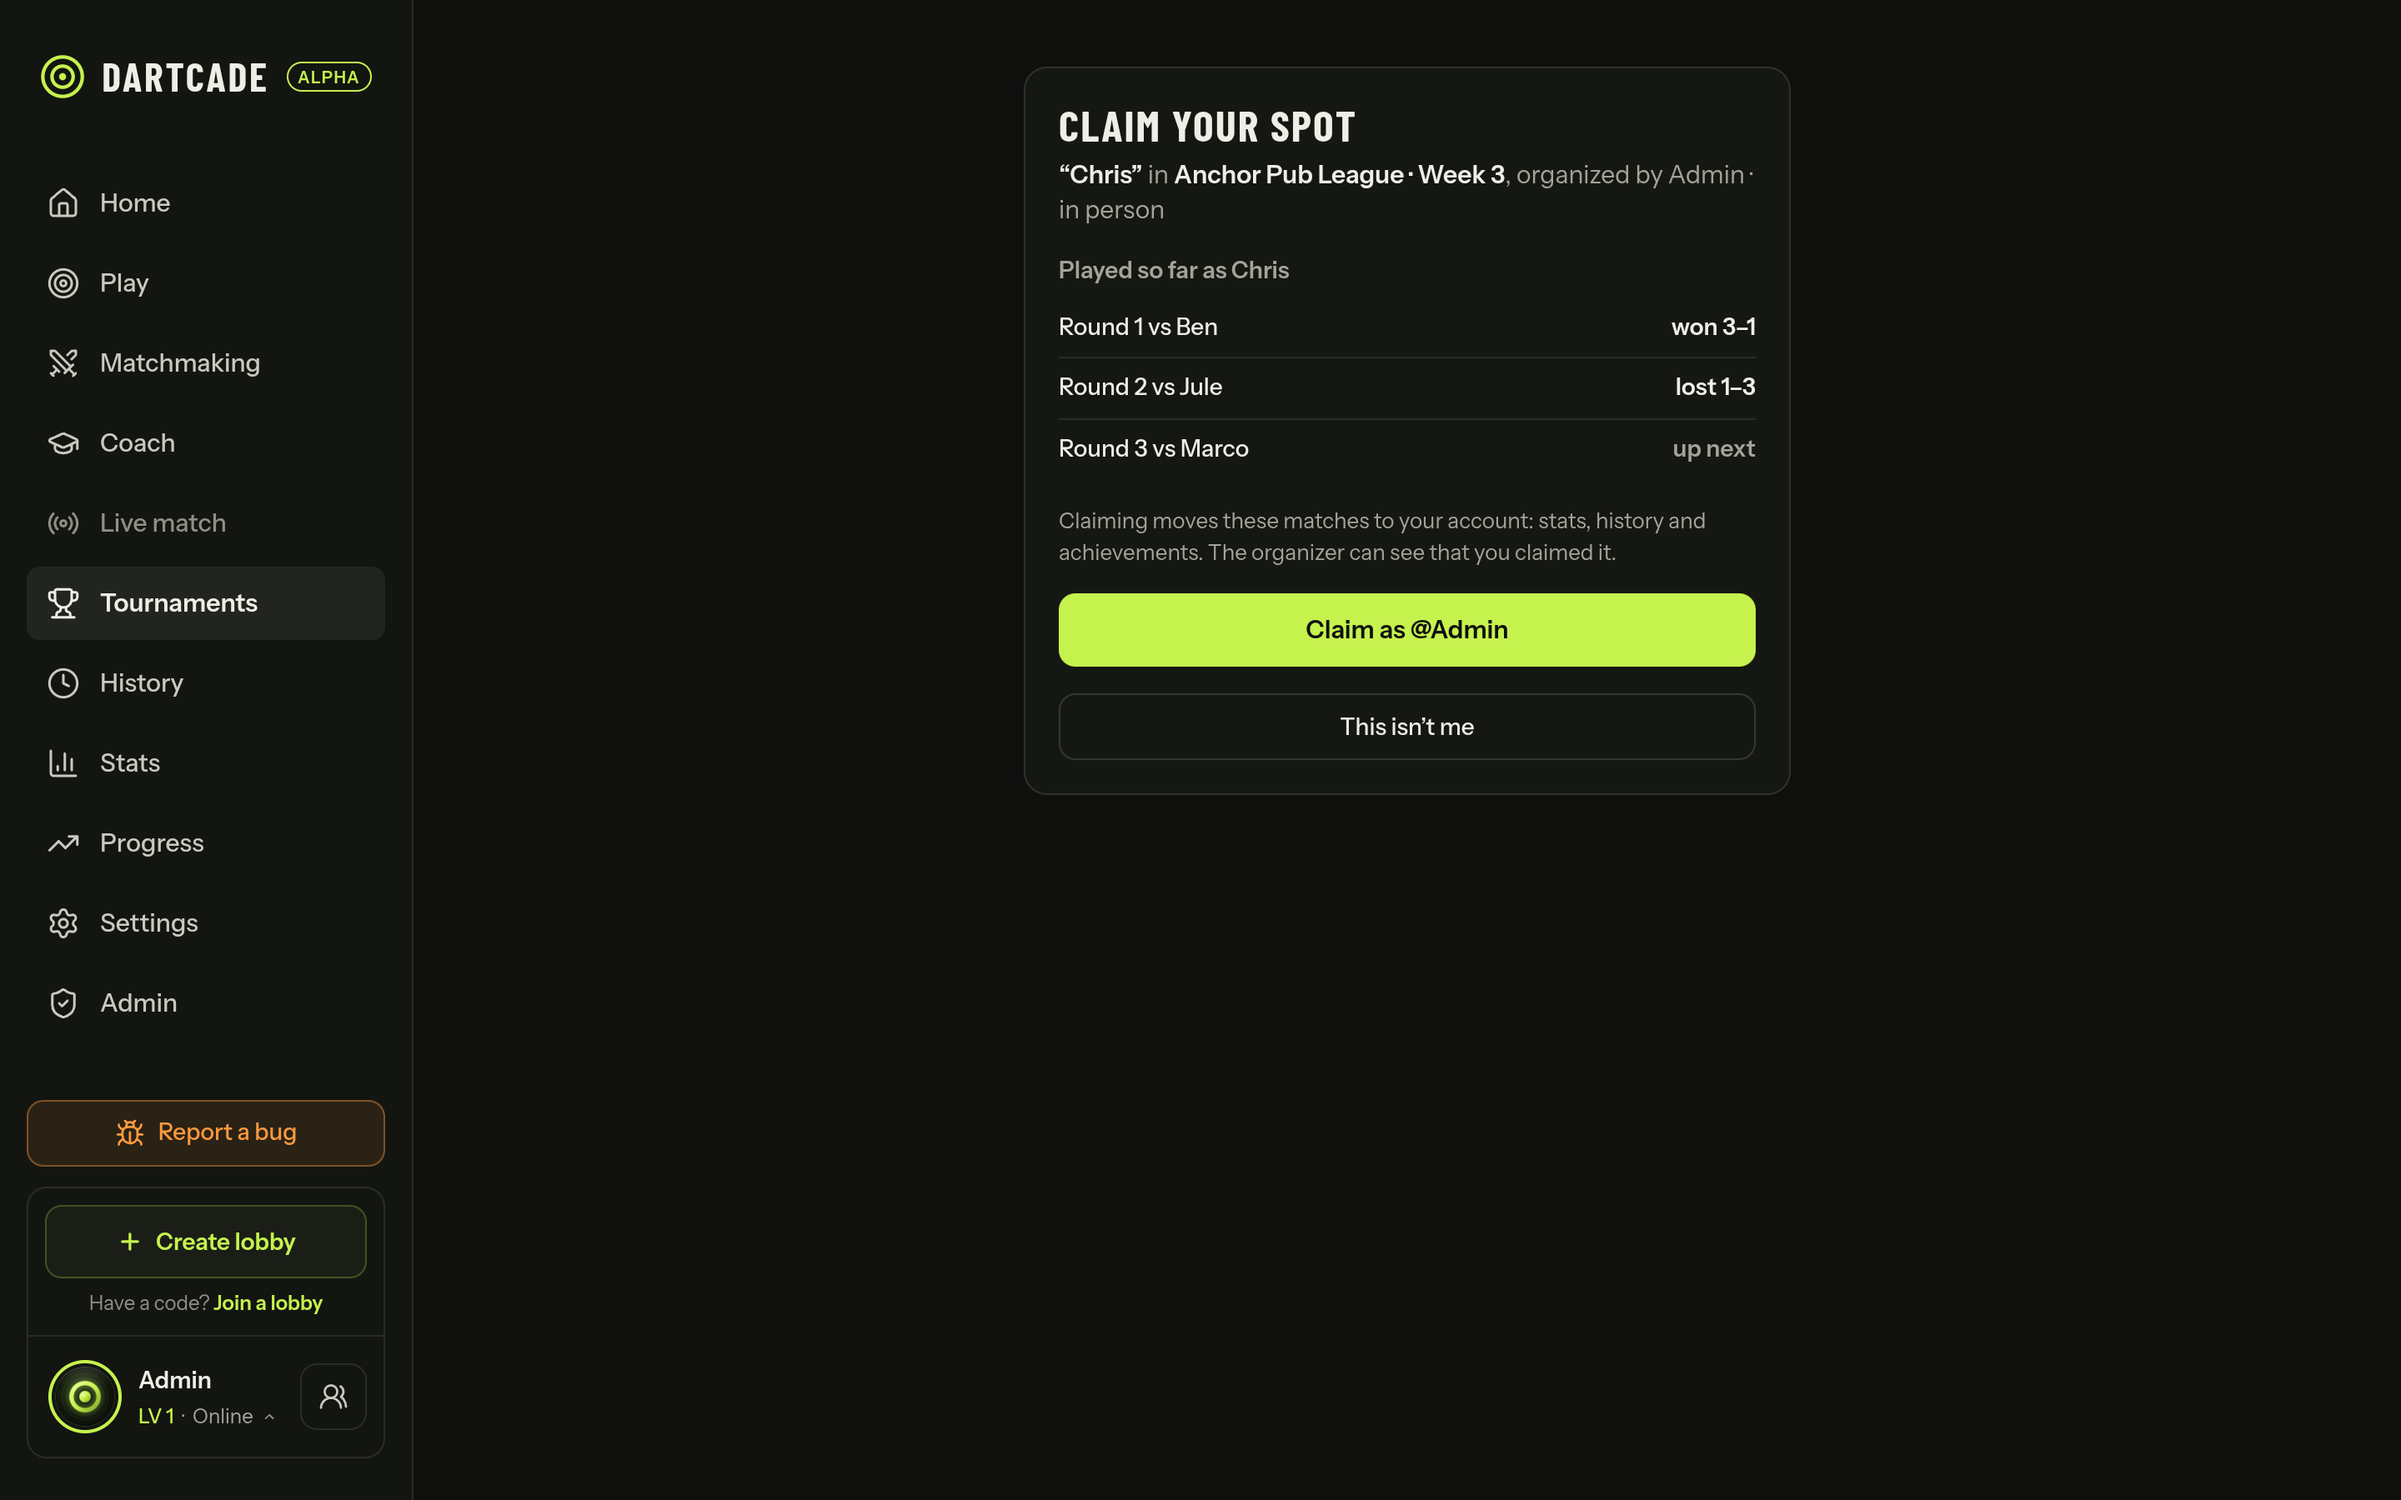
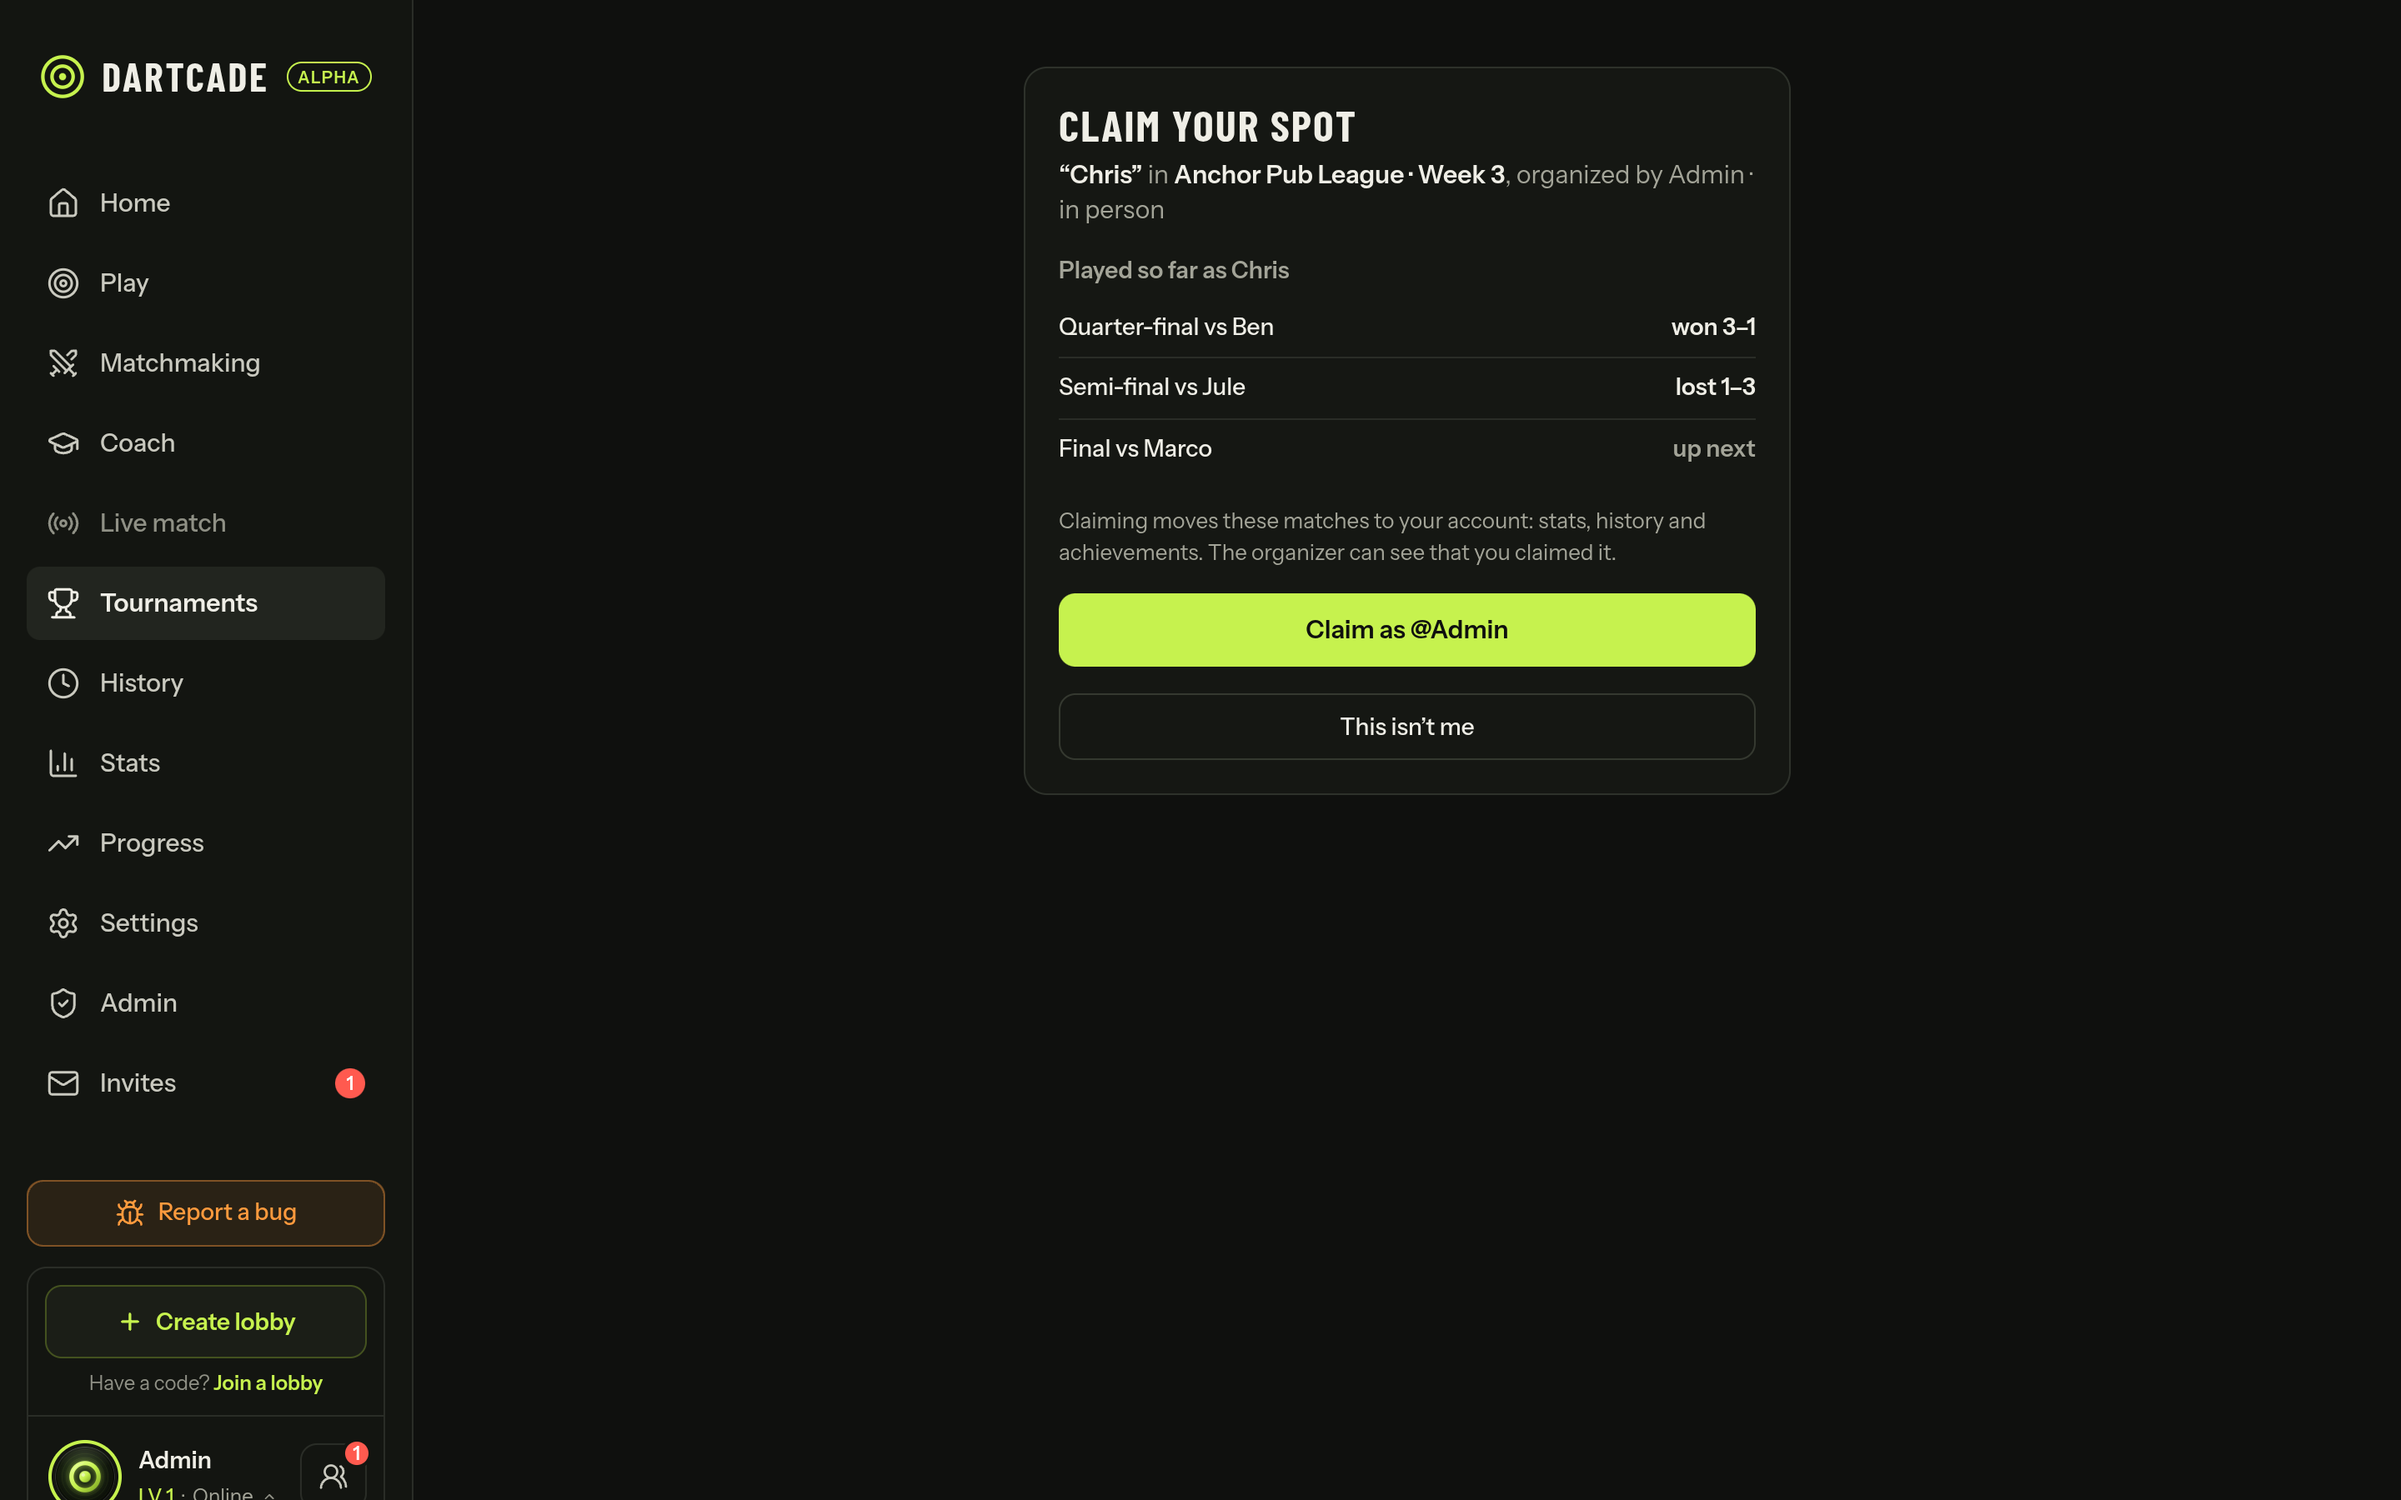
fix(tournaments): title each played match by its bracket on the claim page

diff --git a/backend/src/db/tournamentClaim.ts b/backend/src/db/tournamentClaim.ts
@@ -5,6 +5,8 @@ import { randomBytes } from 'node:crypto'
 import type { Kysely, Transaction } from 'kysely'
 import type { Database } from './schema.js'
 import type { components } from '../schema/api.js'
+import { BRACKET_ORDER } from '../shared/tournaments/bracket.js'
+import { matchTitle } from '../shared/tournaments/mine.js'
 
 type Played = components['schemas']['TournamentClaim']['played'][number]
 
@@ -79,35 +81,46 @@ export async function holdsOtherSpot(
   return row !== undefined
 }
 
-/** The entry's matches in round order, as the claim page's "Played so far". */
+/** The entry's matches in play order (groups, winners' bracket, lower bracket, final), titled like My tournaments does. */
 export async function playedSoFar(db: Kysely<Database>, spot: Pick<ClaimSpot, 'entryId' | 'tournamentId'>): Promise<Played[]> {
-  const rows = await db
-    .selectFrom('tournament_matches as m')
-    .leftJoin('tournament_entries as a', 'a.id', 'm.entry_a_id')
-    .leftJoin('tournament_entries as b', 'b.id', 'm.entry_b_id')
-    .select([
-      'm.round',
-      'm.status',
-      'm.outcome',
-      'm.winner_entry_id',
-      'm.legs_a',
-      'm.legs_b',
-      'm.entry_a_id',
-      'a.name as a_name',
-      'b.name as b_name',
-    ])
-    .where('m.tournament_id', '=', spot.tournamentId)
-    .where(eb => eb.or([eb('m.entry_a_id', '=', spot.entryId), eb('m.entry_b_id', '=', spot.entryId)]))
-    .orderBy('m.round')
-    .orderBy('m.slot')
-    .execute()
+  const [rows, rounds] = await Promise.all([
+    db
+      .selectFrom('tournament_matches as m')
+      .leftJoin('tournament_entries as a', 'a.id', 'm.entry_a_id')
+      .leftJoin('tournament_entries as b', 'b.id', 'm.entry_b_id')
+      .select([
+        'm.bracket',
+        'm.group_no',
+        'm.round',
+        'm.slot',
+        'm.status',
+        'm.outcome',
+        'm.winner_entry_id',
+        'm.legs_a',
+        'm.legs_b',
+        'm.entry_a_id',
+        'a.name as a_name',
+        'b.name as b_name',
+      ])
+      .where('m.tournament_id', '=', spot.tournamentId)
+      .where(eb => eb.or([eb('m.entry_a_id', '=', spot.entryId), eb('m.entry_b_id', '=', spot.entryId)]))
+      .execute(),
+    db
+      .selectFrom('tournament_matches')
+      .select(eb => eb.fn.max('round').as('rounds'))
+      .where('tournament_id', '=', spot.tournamentId)
+      .where('bracket', '=', 'main')
+      .executeTakeFirst(),
+  ])
+  const mainRounds = rounds?.rounds ?? 0
   return rows
     .filter(r => r.outcome !== 'bye')
+    .sort((x, y) => BRACKET_ORDER[x.bracket] - BRACKET_ORDER[y.bracket] || x.round - y.round || x.slot - y.slot)
     .map(r => {
       const mine = r.entry_a_id === spot.entryId
       const finished = r.status === 'finished'
       return {
-        round: r.round,
+        title: matchTitle({ bracket: r.bracket, group: r.group_no, round: r.round }, mainRounds),
         opponent: mine ? r.b_name : r.a_name,
         state: !finished ? 'next' : r.winner_entry_id === spot.entryId ? 'won' : 'lost',
         legs: finished ? (mine ? `${r.legs_a}-${r.legs_b}` : `${r.legs_b}-${r.legs_a}`) : null,

diff --git a/backend/src/api/tournamentClaim.test.ts b/backend/src/api/tournamentClaim.test.ts
@@ -109,6 +109,49 @@ describe.skipIf(!process.env.TEST_DATABASE_URL)('claiming a tournament spot', ()
     expect(counted).toEqual([['g1'], []])
   })
 
+  it('titles each match by its bracket and orders groups, winners, lower bracket and final', async () => {
+    const club = (await send('admin', 'GET', '/api/tournaments/club/participants')).json<Participants>()
+    const chris = codeOf(club, 'Chris')
+    const entry = (await db.selectFrom('tournament_players').select('entry_id').where('id', '=', chris.id).executeTakeFirstOrThrow())
+      .entry_id
+    const rival = (
+      await db
+        .selectFrom('tournament_entries')
+        .select('id')
+        .where('id', '<>', entry)
+        .where('tournament_id', '=', 'club')
+        .executeTakeFirstOrThrow()
+    ).id
+    const add = (bracket: 'group' | 'main' | 'lower' | 'final', round: number, group_no: number | null, finished: boolean) =>
+      db
+        .insertInto('tournament_matches')
+        .values({
+          id: `m-${bracket}-${round}`,
+          tournament_id: 'club',
+          bracket,
+          group_no,
+          round,
+          slot: 0,
+          entry_a_id: entry,
+          entry_b_id: rival,
+          first_to: 3,
+          status: finished ? 'finished' : 'ready',
+          outcome: finished ? 'played' : null,
+          winner_entry_id: finished ? entry : null,
+          legs_a: finished ? 3 : 0,
+          legs_b: finished ? 1 : 0,
+        })
+        .execute()
+    await add('final', 1, null, false)
+    await add('lower', 1, null, true)
+    await add('main', 1, null, true)
+    await add('main', 2, null, true)
+    await add('group', 1, 2, true)
+    const page = await send('ben', 'GET', `/api/tournaments/claim/${chris.claimCode}`)
+    expect(page.json<Claim>().played.map(p => p.title)).toEqual(['Group 2', 'Semi-final', 'Final', 'Lower bracket, round 1', 'Grand final'])
+    await db.deleteFrom('tournament_matches').where('tournament_id', '=', 'club').execute()
+  })
+
   it('refuses a claimed spot, a second spot in the same tournament and a draft', async () => {
     const club = (await send('admin', 'GET', '/api/tournaments/club/participants')).json<Participants>()
     expect((await send('ben', 'POST', `/api/tournaments/claim/${codeOf(club, 'Chris').claimCode}`)).statusCode).toBe(409)

diff --git a/backend/frontend/src/lib/tournaments/claim.test.ts b/backend/frontend/src/lib/tournaments/claim.test.ts
@@ -5,14 +5,14 @@ const claim = { claimable: true, claimedByMe: false } as Parameters<typeof uncla
 
 describe('claim page', () => {
   it('words each match: result with legs, or up next', () => {
-    expect(playedRow({ round: 1, opponent: 'Ben', state: 'won', legs: '3-1' })).toEqual({
-      title: 'Round 1 vs Ben',
+    expect(playedRow({ title: 'Quarter-final', opponent: 'Ben', state: 'won', legs: '3-1' })).toEqual({
+      title: 'Quarter-final vs Ben',
       result: 'won 3–1',
       tone: 'won',
     })
-    expect(playedRow({ round: 2, opponent: 'Jule', state: 'lost', legs: '1-3' }).result).toBe('lost 1–3')
-    expect(playedRow({ round: 3, opponent: null, state: 'next', legs: null })).toEqual({
-      title: 'Round 3',
+    expect(playedRow({ title: 'Group 2', opponent: 'Jule', state: 'lost', legs: '1-3' }).result).toBe('lost 1–3')
+    expect(playedRow({ title: 'Grand final', opponent: null, state: 'next', legs: null })).toEqual({
+      title: 'Grand final',
       result: 'up next',
       tone: 'next',
     })

diff --git a/backend/frontend/src/lib/tournaments/claim.ts b/backend/frontend/src/lib/tournaments/claim.ts
@@ -33,9 +33,9 @@ export async function claimSpot(code: string): Promise<ClaimResult> {
   }
 }
 
-/** One "Played so far" row: "Round 1 vs Ben" with "won 3–1", "lost 1–3" or "up next". */
+/** One "Played so far" row: "Quarter-final vs Ben" with "won 3–1", "lost 1–3" or "up next". */
 export function playedRow(p: Played): { title: string; result: string; tone: 'won' | 'lost' | 'next' } {
-  const title = `Round ${p.round}${p.opponent ? ` vs ${p.opponent}` : ''}`
+  const title = p.opponent ? `${p.title} vs ${p.opponent}` : p.title
   if (p.state === 'next') return { title, result: 'up next', tone: 'next' }
   return { title, result: `${p.state} ${p.legs ? p.legs.replace('-', '–') : ''}`.trim(), tone: p.state }
 }

diff --git a/backend/frontend/src/lib/api/schema.ts b/backend/frontend/src/lib/api/schema.ts
@@ -5866,9 +5866,10 @@ export interface components {
             teamName: string | null;
             claimable: boolean;
             claimedByMe: boolean;
-            /** @description The entry's matches in round order */
+            /** @description The entry's matches in play order */
             played: {
-                round: number;
+                /** @description The match as My tournaments names it: "Quarter-final", "Group 2", "Lower bracket, round 1", "Grand final" */
+                title: string;
                 opponent: string | null;
                 /** @enum {string} */
                 state: "won" | "lost" | "next";

diff --git a/backend/src/schema/api.ts b/backend/src/schema/api.ts
@@ -5866,9 +5866,10 @@ export interface components {
             teamName: string | null;
             claimable: boolean;
             claimedByMe: boolean;
-            /** @description The entry's matches in round order */
+            /** @description The entry's matches in play order */
             played: {
-                round: number;
+                /** @description The match as My tournaments names it: "Quarter-final", "Group 2", "Lower bracket, round 1", "Grand final" */
+                title: string;
                 opponent: string | null;
                 /** @enum {string} */
                 state: "won" | "lost" | "next";

diff --git a/backend/frontend/src/routes/TournamentClaim.svelte b/backend/frontend/src/routes/TournamentClaim.svelte
@@ -80,7 +80,7 @@
           <div class="flex flex-col gap-1.5">
             <h2 class="text-label font-semibold text-text-muted">Played so far as {claim.spotName}</h2>
             <ul class="flex flex-col p-0">
-              {#each claim.played as p (`${p.round}-${p.opponent ?? ''}`)}
+              {#each claim.played as p (`${p.title}-${p.opponent ?? ''}`)}
                 {@const row = playedRow(p)}
                 <li class="flex items-center justify-between gap-3 border-b border-line py-2 text-label last:border-0">
                   <span class="min-w-0 truncate">{row.title}</span>
